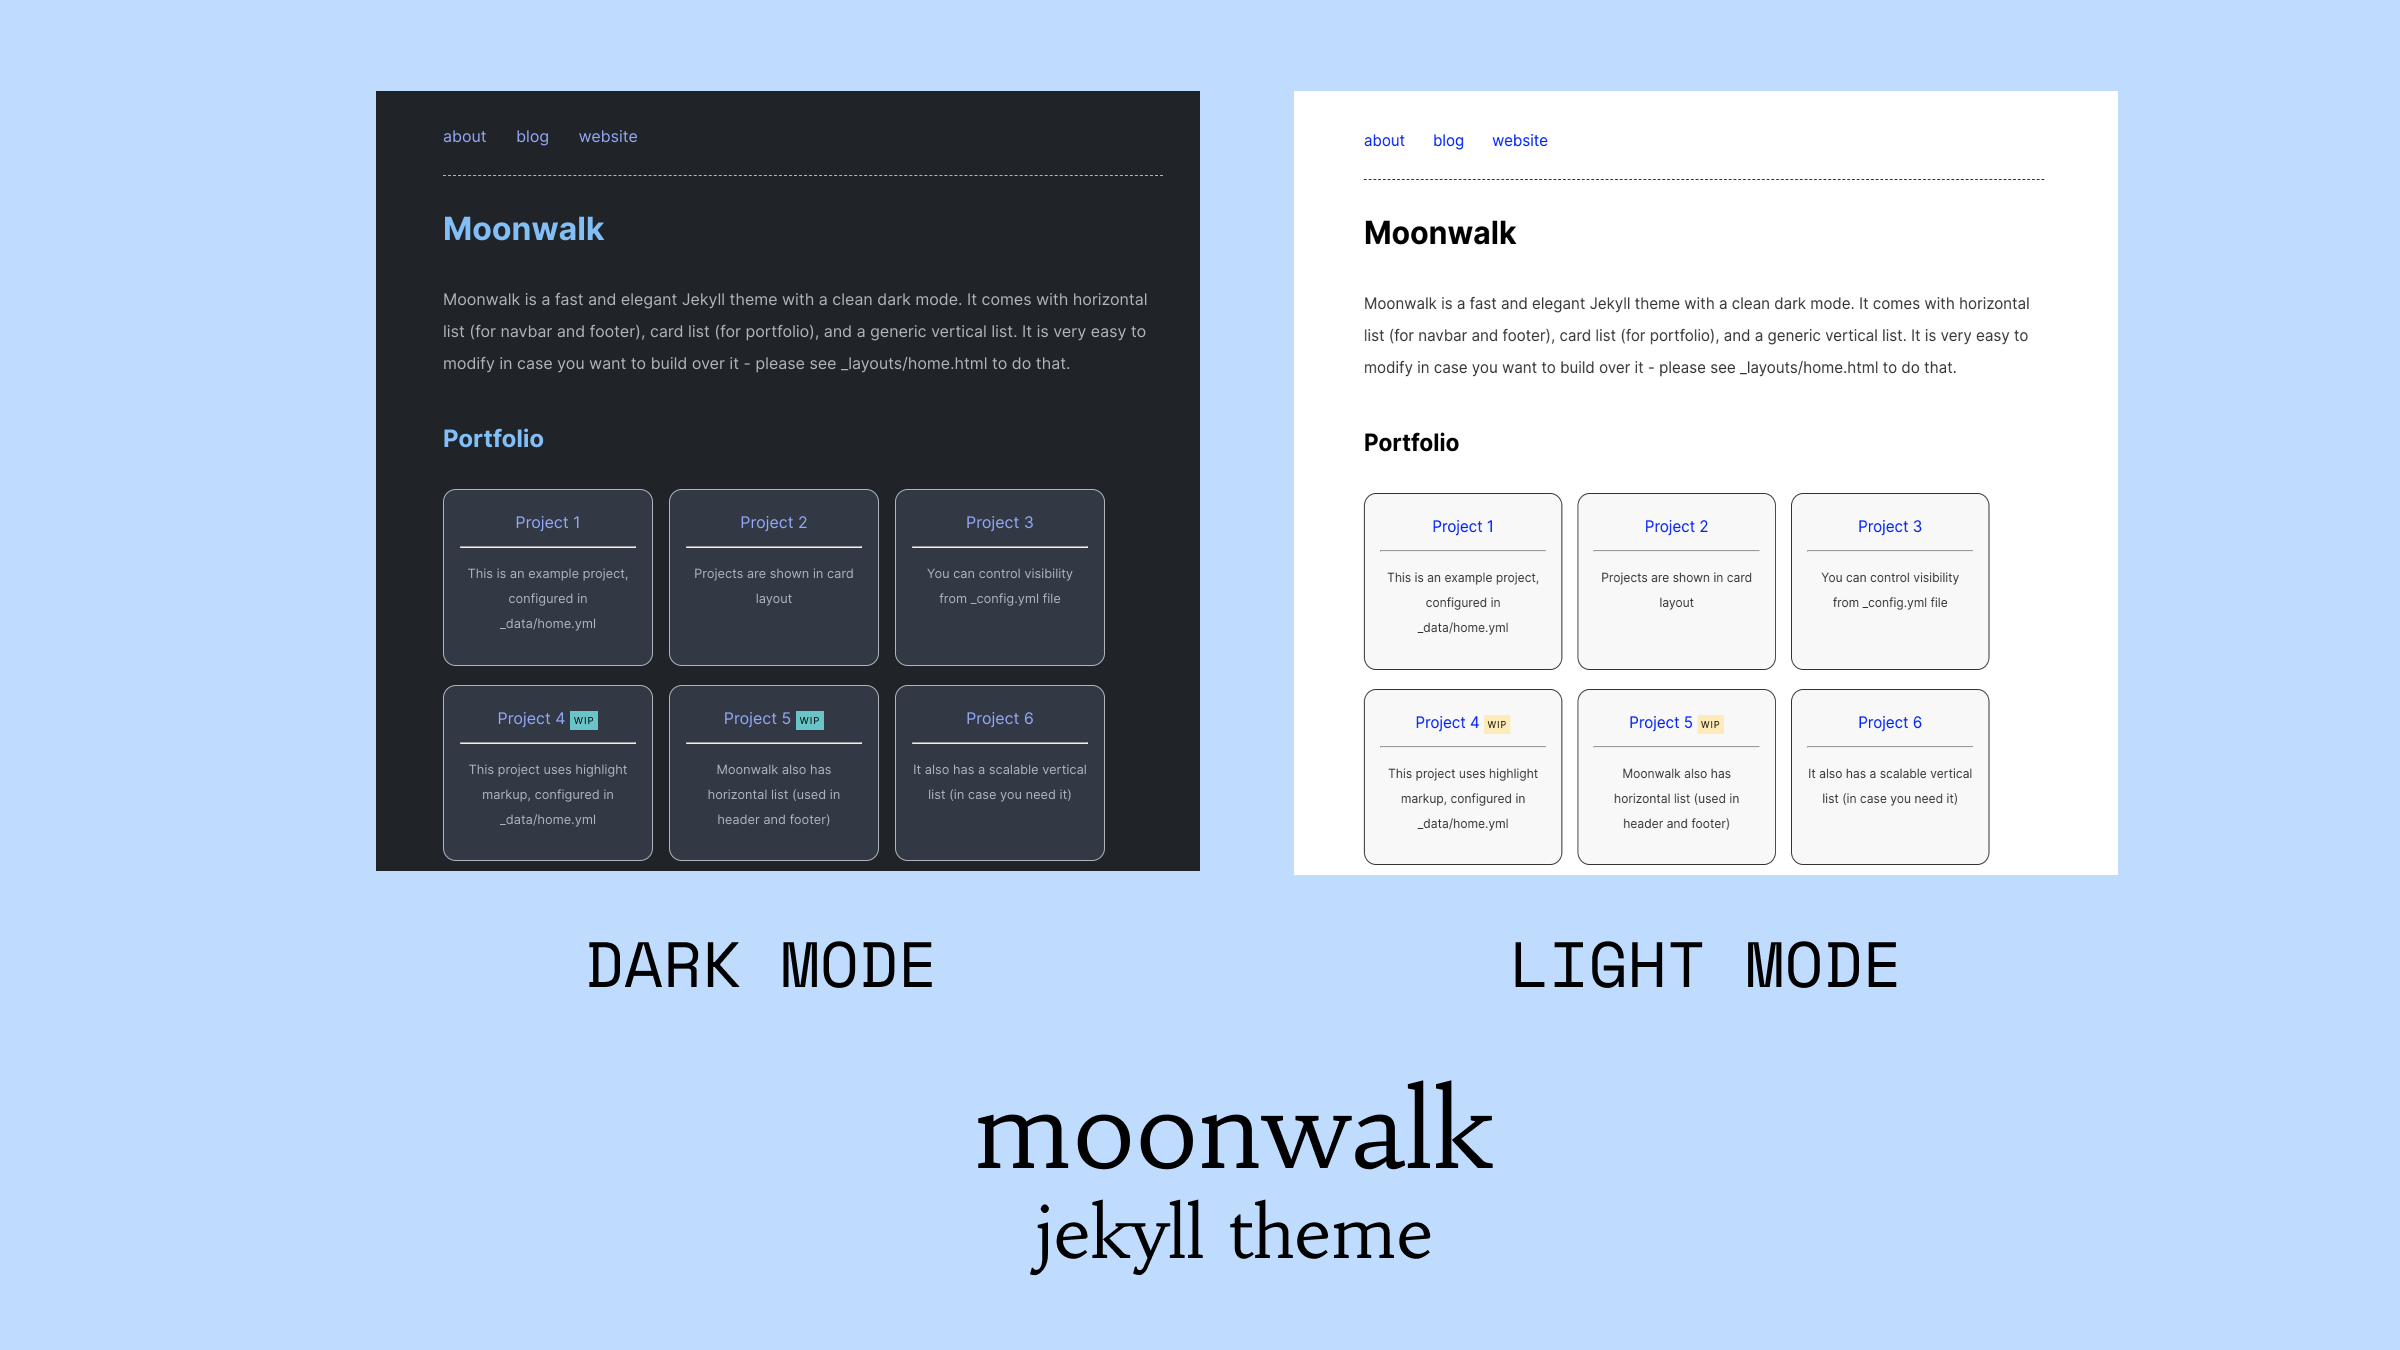
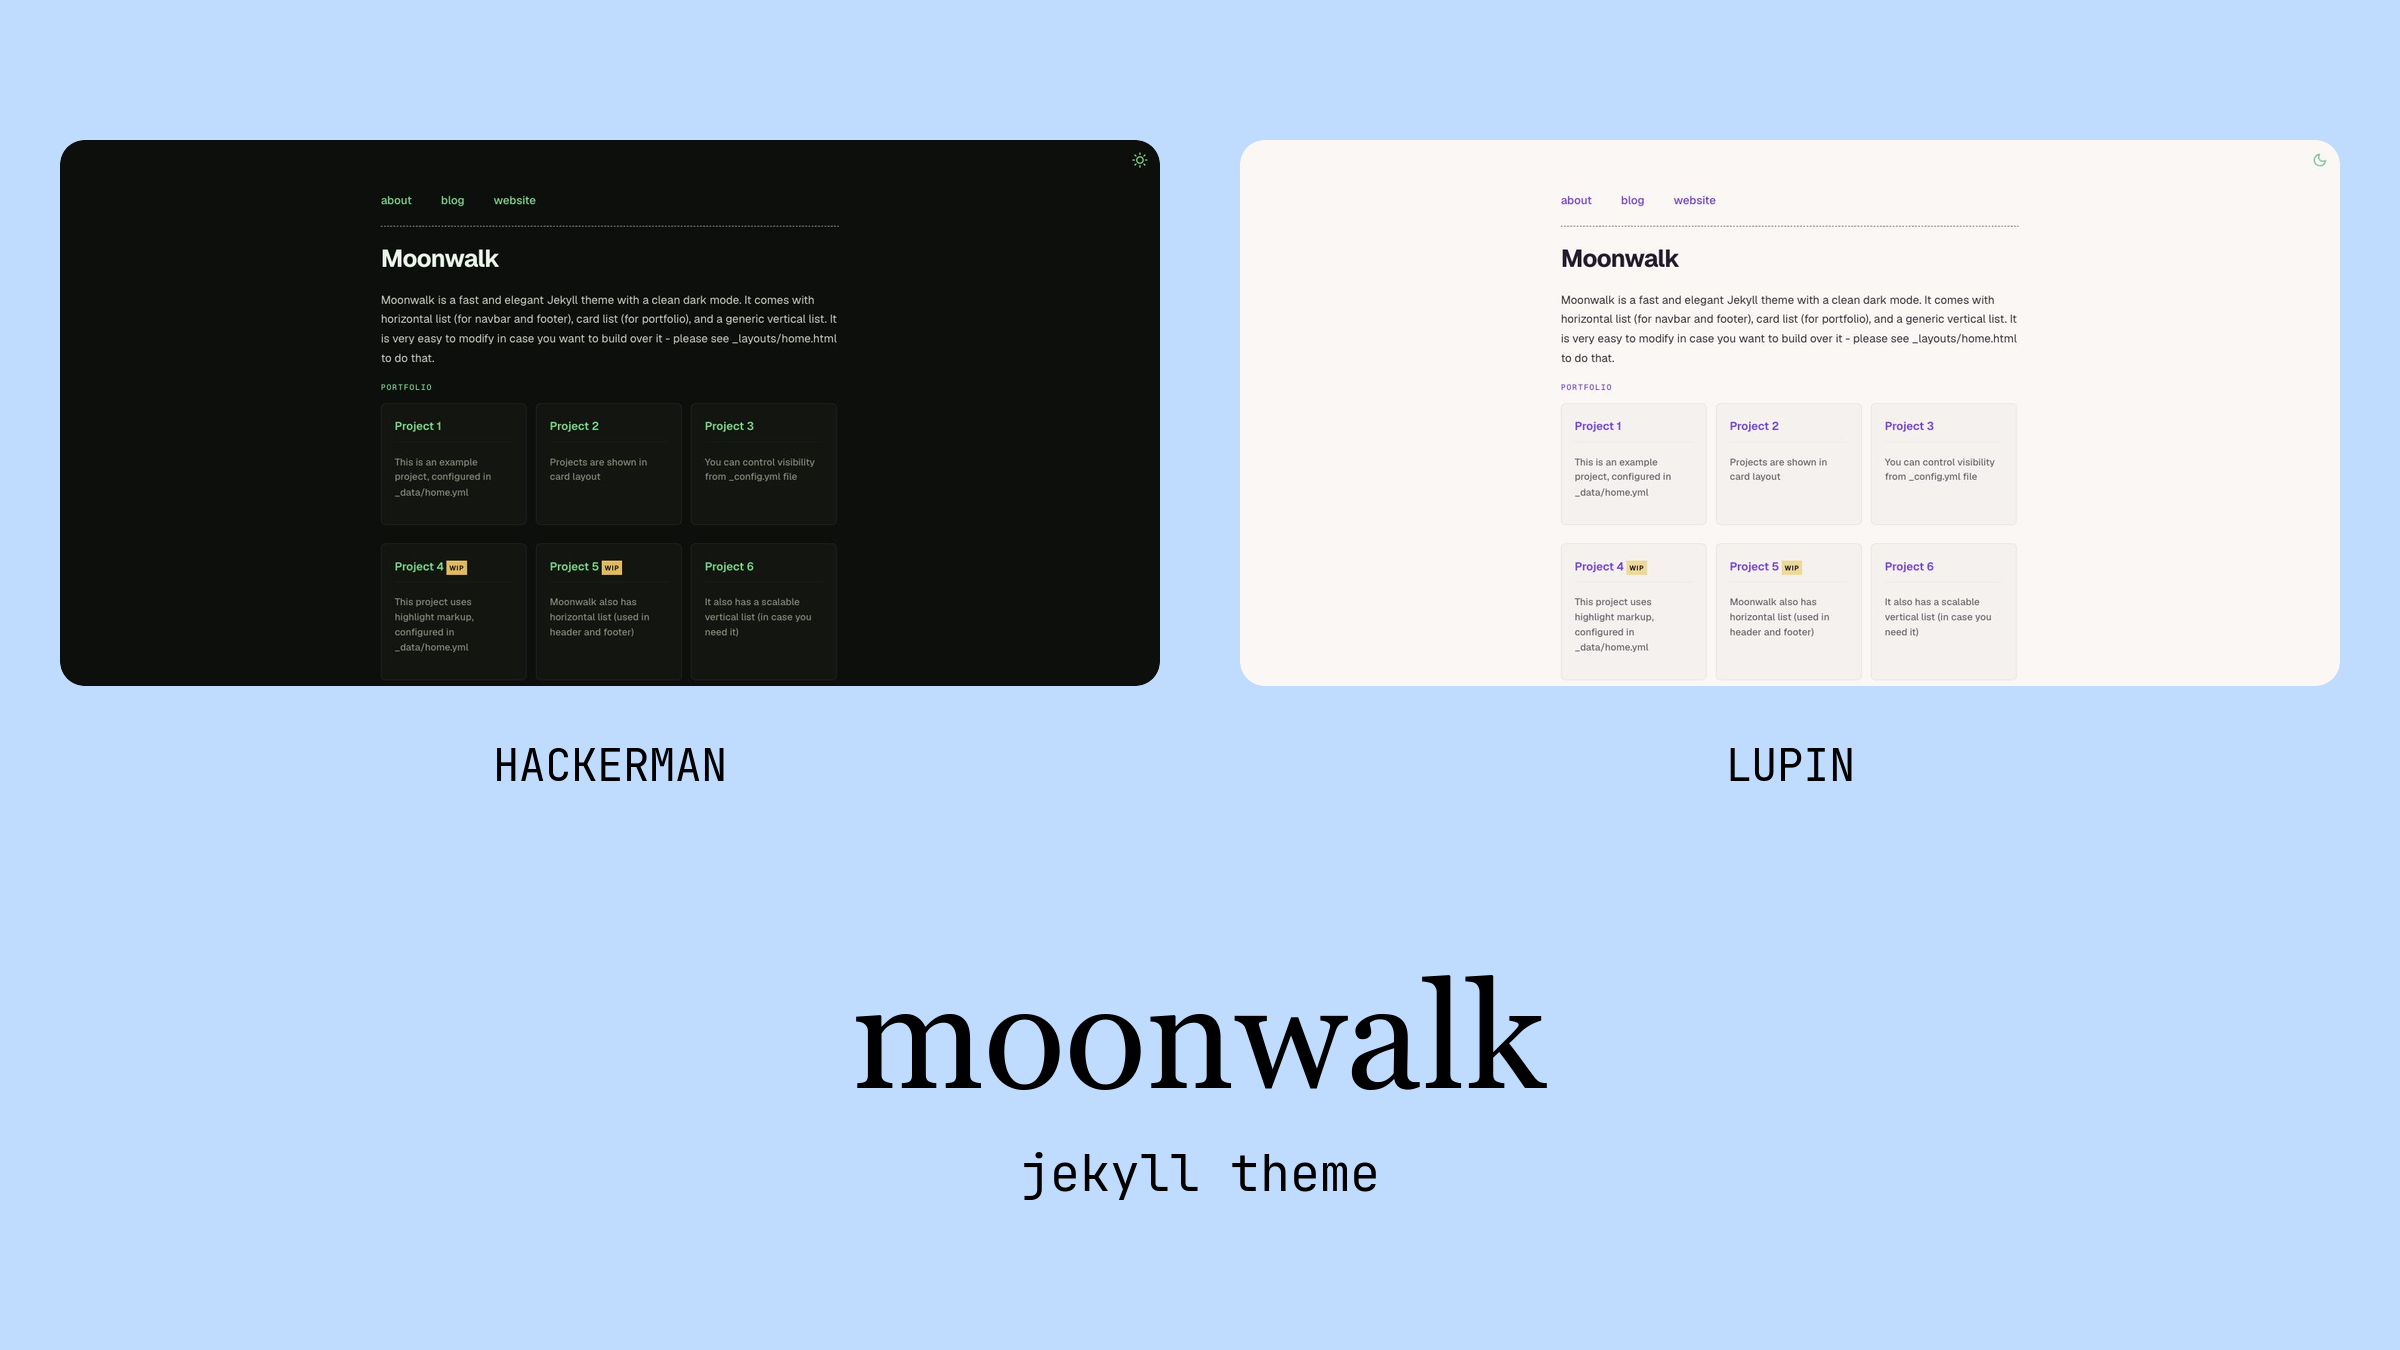
Add Lupin/hackerman themes with jdx-inspired styling, refresh screenshot, and update dependencies

diff --git a/_sass/moonwalk.scss b/_sass/moonwalk.scss
@@ -38,6 +38,17 @@ h2 {
 h3 { font-size: clamp(1.1rem, 1rem + 0.4vw, 1.25rem); letter-spacing: -0.01em; font-weight: 600; }
 h2, h3, h4, h5 { margin-top: 1.6em; }
 
+// Uppercase, tracked-out eyebrow label for home page section headers
+// (Portfolio, Blog, etc.) - see _layouts/home.html
+.section-label {
+  font-family: var(--font-mono);
+  font-size: 0.78rem;
+  font-weight: 500;
+  text-transform: uppercase;
+  letter-spacing: 0.12em;
+  color: var(--links);
+}
+
 hr { margin: 1em 0; }
 
 p { margin: 1.25em 0; }
@@ -120,37 +131,39 @@ img {
   border-radius: 0.5em;
   box-shadow: 0 2px 8px rgba(0,0,0,0.08);
 }
+// Lupin - warm, elegant light theme (gentleman-thief palette)
 @mixin light-appearance {
   html, body {
-      --bg: #fcfcfc;
-      --bg-secondary: #f1f2f4;
-      --bg-subtle: #f6f7f8;
-      --headings: #0f172a;
-      --text: #2b2f36;
-      --text-secondary: #5b6470;
-      --links: #4f46e5;
-      --highlight: #FFECB2;
-      --code-text: #9D174D;
-      --share-text: #999;
-      --border: rgba(15, 23, 42, 0.08);
-      --border-subtle: rgba(15, 23, 42, 0.05);
+      --bg: #faf7f5;
+      --bg-secondary: #f0ebe8;
+      --bg-subtle: #f5f1ee;
+      --headings: #241b2f;
+      --text: #3a3038;
+      --text-secondary: #6f6470;
+      --links: #7c3aed;
+      --highlight: #f5d78e;
+      --code-text: #a1266e;
+      --share-text: #9c8f96;
+      --border: rgba(36, 27, 47, 0.08);
+      --border-subtle: rgba(36, 27, 47, 0.05);
   }
 }
 // -------------- THEME SWITCHER -------------- //
+// hackerman - phosphor-terminal dark theme
 @mixin dark-appearance {
   html, body  {
-      --headings: #e6edf3;
-      --links: #91A7FF;
-      --highlight: #41C7C7;
-      --bg: #15161d;
-      --bg-secondary: #23242f;
-      --bg-subtle: #1c1d26;
-      --text: #c4ccd6;
-      --text-secondary: #8b94a3;
-      --code-text: #91A7FF;
-      --share-text: #C4C4C4;
-      --border: rgba(255, 255, 255, 0.08);
-      --border-subtle: rgba(255, 255, 255, 0.05);
+      --headings: #e8f5e9;
+      --links: #4ade80;
+      --highlight: #e8b84b;
+      --bg: #0d0f0c;
+      --bg-secondary: #171911;
+      --bg-subtle: #131510;
+      --text: #c9d1c0;
+      --text-secondary: #7c8a74;
+      --code-text: #2dd4bf;
+      --share-text: #a8b39c;
+      --border: rgba(180, 255, 190, 0.08);
+      --border-subtle: rgba(180, 255, 190, 0.05);
   };
 }
 

diff --git a/_sass/syntax.scss b/_sass/syntax.scss
@@ -2,7 +2,7 @@
 html[data-theme="light"] .highlight,
 body[data-theme="auto"] .highlight {
   .hll { background-color: #ffffcc }
-  &    { background: #f6f8fa; color: #24292f }
+  &    { background: #f5f1ee; color: #3a3038 }
   .c   { color: #6a737d } /* Comment */
   .err { color: #cb2431 } /* Error */
   .k   { color: #d73a49 } /* Keyword */
@@ -78,7 +78,7 @@ body[data-theme="auto"] .highlight {
 @media (prefers-color-scheme: light) {
   body[data-theme="auto"] .highlight {
     .hll { background-color: #ffffcc }
-    &    { background: #f6f8fa; color: #24292f }
+    &    { background: #f5f1ee; color: #3a3038 }
     .c   { color: #6a737d }
     .err { color: #cb2431 }
     .k   { color: #d73a49 }
@@ -97,8 +97,8 @@ body[data-theme="auto"] .highlight {
 }
 
 // Dark mode syntax highlighting (default)
-.highlight .hll { background-color: #515151 }
-.highlight  { background: #1A1F35; color: #f2f0ec }
+.highlight .hll { background-color: #223018 }
+.highlight  { background: #131510; color: #c9d1c0 }
 .highlight .c { color: #747369 } /* Comment */
 .highlight .err { color: #f2777a } /* Error */
 .highlight .k { color: #cc99cc } /* Keyword */

diff --git a/_layouts/home.html b/_layouts/home.html
@@ -17,22 +17,22 @@ layout: default
 {{ content }}
 
 {% if site.theme_config.show_projects == true %}
-  <h2>{{ site.theme_config.home.title_projects }}</h2>
+  <h2 class="section-label">{{ site.theme_config.home.title_projects }}</h2>
   {% include card_list.html collection=site.data.home.project_entries %}
 {% endif %}
 
 {% if site.theme_config.show_misc_list == true %}
-  <h2>{{ site.theme_config.home.title_misc_list }}</h2>
+  <h2 class="section-label">{{ site.theme_config.home.title_misc_list }}</h2>
   {% include vertical_list.html collection=site.data.home.misc_entries %}
 {% endif %}
 
 {% if site.theme_config.show_blog == true %}
-  <h2>{{ site.theme_config.home.title_blog }}</h2>
+  <h2 class="section-label">{{ site.theme_config.home.title_blog }}</h2>
   {% include post_list.html %}
 {% endif %}
 
 {% if site.theme_config.show_old_projects == true %}
-  <h2>{{ site.theme_config.home.title_old_projects }}</h2>
+  <h2 class="section-label">{{ site.theme_config.home.title_old_projects }}</h2>
   {% include card_list.html collection=site.data.home.old_project_entries %}
 {% endif %}
 

diff --git a/_sass/list.scss b/_sass/list.scss
@@ -36,7 +36,7 @@ ul.horizontal-list {
 
   &:hover {
     transform: translateY(-2px);
-    box-shadow: 0 4px 16px rgba(0,0,0,0.06);
+    box-shadow: 0 4px 16px color-mix(in srgb, var(--links) 18%, transparent);
     border-color: var(--links);
   }
 

diff --git a/README.md b/README.md
@@ -8,7 +8,7 @@
 </h3>
 
 ## Features
-* Light & dark mode with theme switcher (respects `prefers-reduced-motion`)
+* Two hand-tuned themes - **Lupin** (light) and **hackerman** (dark) - with a theme switcher (respects `prefers-reduced-motion`)
 * Typeset in [Geist](https://vercel.com/font) (body & headings) and [Geist Mono](https://vercel.com/font) (code)
 * [Agent-friendly out of the box](#agent-friendly-by-default) - per-page `.md` siblings, `/llms.txt`, and `/llms-full.txt`
 * Built-in client-side search over post titles, tags, and excerpts
@@ -104,34 +104,36 @@ The `home.yml` file accepts the following fields:
   - home - for landing page
   you can change your `index.md` file to use either home or blog layout.
 
-2. It is extremely easy to tweak the color scheme.
-  - for light mode, customize these css variables
+2. It is extremely easy to tweak the color scheme. Moonwalk ships with **Lupin** (light) and **hackerman** (dark) - override either mixin in your own SCSS to make it your own.
+  - Lupin (light mode)
 ```css
-html {
-    --bg: #fcfcfc;
-    --bg-secondary: #f1f2f4;
-    --bg-subtle: #f6f7f8;
-    --headings: #0f172a;
-    --text: #2b2f36;
-    --text-secondary: #5b6470;
-    --links: #4f46e5;
-    --highlight: #ffecb2; // light yellow
-    --code-text: #9d174d;
+@mixin light-appearance {
+  html, body {
+      --bg: #faf7f5;
+      --bg-secondary: #f0ebe8;
+      --bg-subtle: #f5f1ee;
+      --headings: #241b2f;
+      --text: #3a3038;
+      --text-secondary: #6f6470;
+      --links: #7c3aed;
+      --highlight: #f5d78e;
+      --code-text: #a1266e;
+  }
 }
 ```
-  - for dark mode customize these css variables
+  - hackerman (dark mode)
 ```css
 @mixin dark-appearance {
   html, body  {
-      --headings: #e6edf3;
-      --links: #91a7ff;
-      --highlight: #41c7c7;
-      --bg: #15161d;
-      --bg-secondary: #23242f;
-      --bg-subtle: #1c1d26;
-      --text: #c4ccd6;
-      --text-secondary: #8b94a3;
-      --code-text: #91a7ff;
+      --headings: #e8f5e9;
+      --links: #4ade80;
+      --highlight: #e8b84b;
+      --bg: #0d0f0c;
+      --bg-secondary: #171911;
+      --bg-subtle: #131510;
+      --text: #c9d1c0;
+      --text-secondary: #7c8a74;
+      --code-text: #2dd4bf;
   };
 }
 ```
